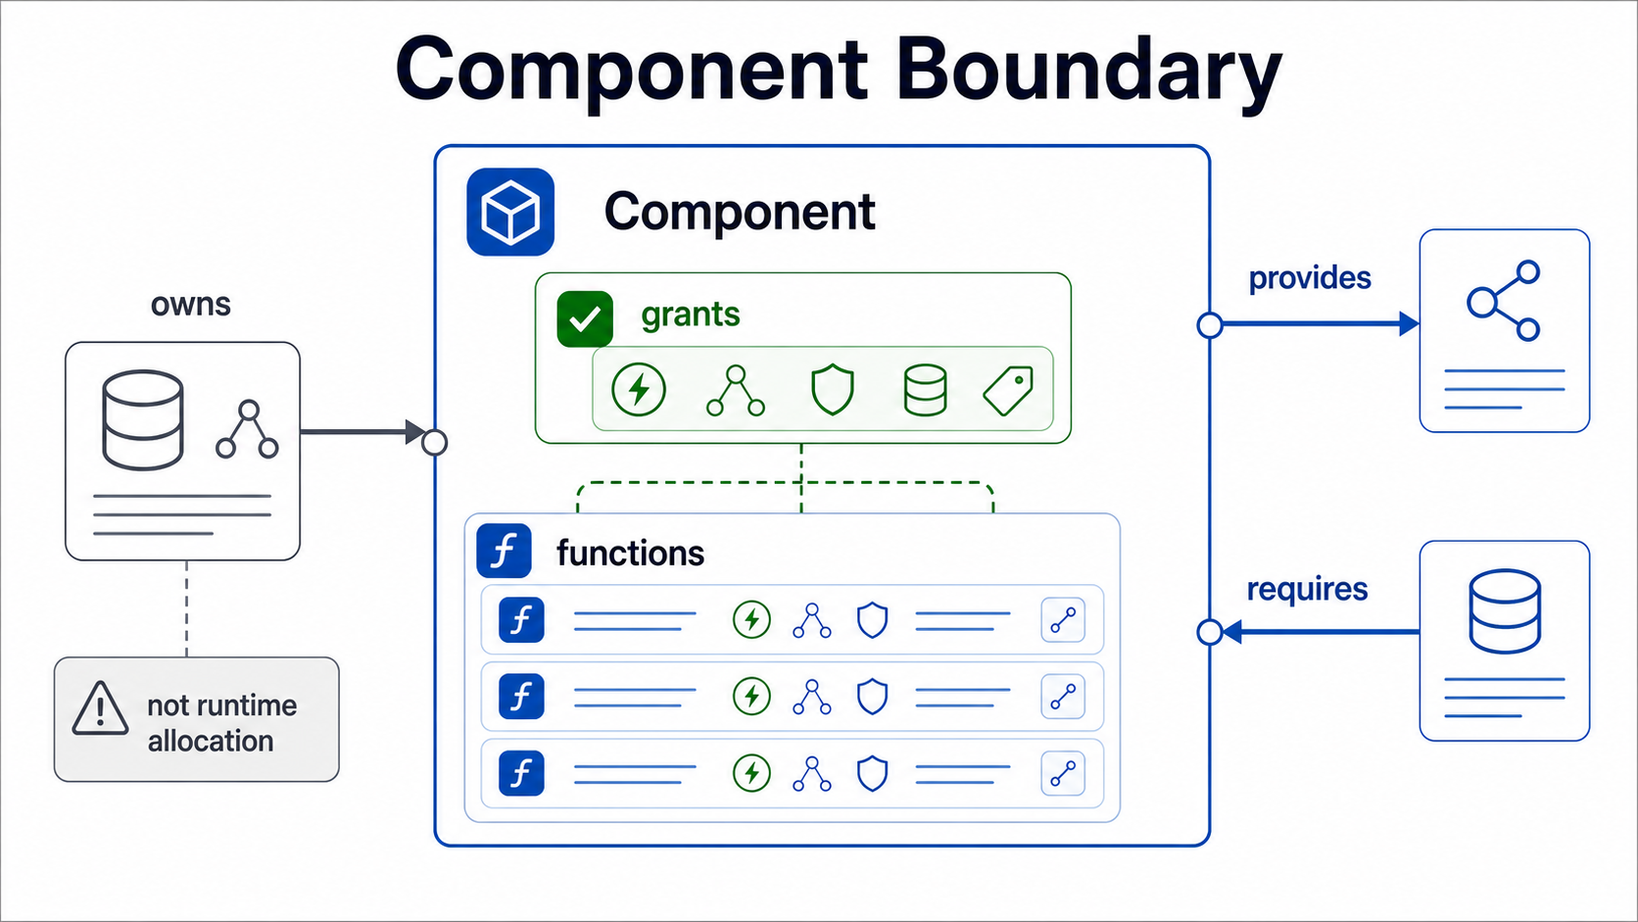
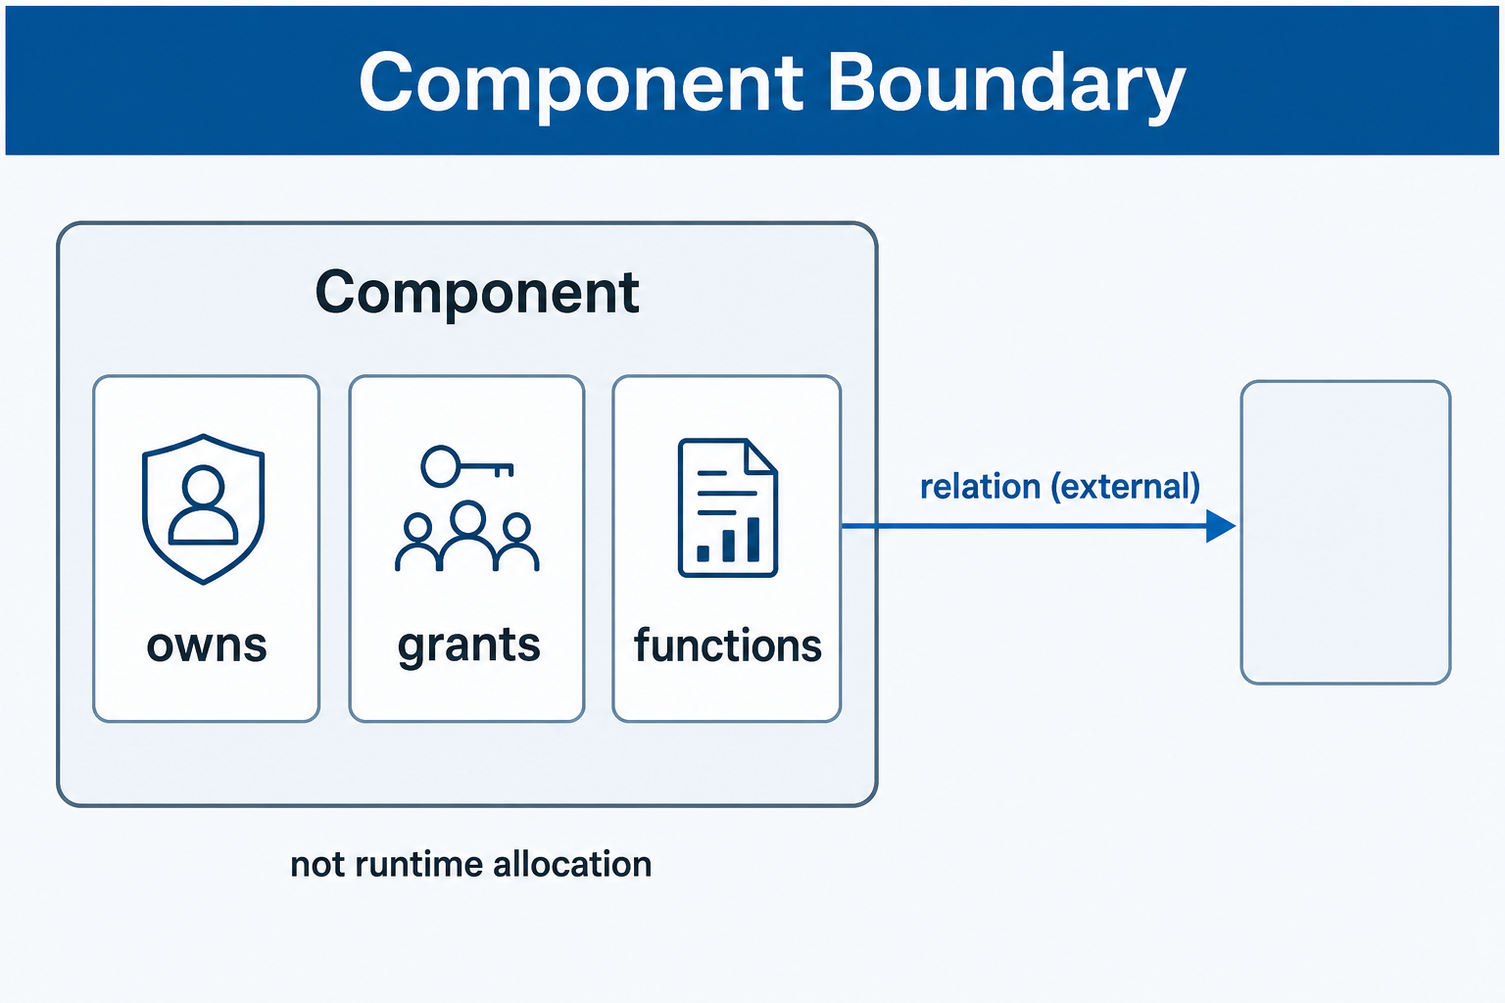
docs: align docs, skills, and infographics with hypergraph design
Close the remaining doc and asset drift left over from the
`feat: rebuild Shape around a directed hypergraph` rewrite. No code,
test, or fixture changes; this pass is content-only cleanup.

- Rename `concepts/rules-dependency-graphs.md` to `rules-hypercycles.md`
  and re-link inbound references (relations-hypergraphs, PROMPTS,
  DESIGN).
- Drop component-level "dependencies" from learn/first-shape-file,
  inside-shape/langium-grammar (add a `relation` row), and
  inside-shape/checker-pipeline (add `relation` to the parse-phase
  list, tighten "forbidden cycle" -> "forbidden hypercycle").
- Add `lowerRelation` to the fact-lowering mermaid plus a new
  "Relation Lowering" section with hyperedge/hyperedge_member facts.
- Add `Forbidden hypercycle`, `Forbidden provides`, `Invalid relation`,
  and `Unknown relation endpoint` sections to reference/diagnostics.md
  with checker-accurate samples.
- Update skill references (make-shape-protocol, teaching-guide,
  antipatterns, cli-workflows) to talk about top-level `relation`
  declarations and hypercycle bans.
- Soft-terminology pass on README, docs index, reference/cli, and
  skill cli-workflows: dependencies/dependency cycles/edge ->
  relations/hypercycles/hyperedge.
- Syntax highlighter: add `relation`, `kind`, `connects`, `roles`,
  `calls`, `callbacks`, `coordinated_call`, `as`, `hypercycle`;
  drop stale `cycle`, `where`, `includes`, `via`.
- Regenerate `component-boundary-grants.png` (relation hyperedge
[…]

Changed region(s): [[0.0, 0.0, 1.0, 0.9245], [0.0938, 0.3082, 0.1562, 0.339], [0.9375, 0.4623, 0.9688, 0.4931]]

diff --git a/docs-site/src/assets/infographics/PROMPTS.md b/docs-site/src/assets/infographics/PROMPTS.md
@@ -7,7 +7,7 @@ These prompts were written with the `$infographic` skill conventions and use `@f
 - `shape-model-loop.png` was regenerated once to remove invented sample code, filenames, and non-Shape domain details.
 - `core-vocabulary-map.png` was regenerated once after the first pass misspelled `Ownership`.
 - `design-memory-reevaluation.png` was regenerated after the first pass rendered `guards on_change` with an extra underscore.
-- `dependency-witness-path.png` was regenerated twice: the first two attempts misspelled `AuditStore`, so the final asset uses generic component names to teach the witness-path concept without a bad project term.
+- `hypercycle-witness-path.png` was regenerated for the hypergraph redesign to teach the witness-path concept using `calls`/`callbacks` relations and a `forbid hypercycle` rule. The asset uses generic `Component A`/`Component B` names because earlier image-generation passes misspelled real project component names; using generic names keeps the diagram pedagogical without inviting a bad project term into the rendered text.
 - `quickstart-loop.png` was regenerated once to remove platform logos from the install panel.
 - The saved assets were visually inspected for label spelling, layout coherence, and unsupported Shape behavior before embedding.
 
@@ -19,15 +19,15 @@ These additional prompts were intentionally lower-density than the first set. Ea
 | --- | --- | --- |
 | `quickstart-loop.png` | `learn/quickstart.md` | `Quickstart Loop`, `install shp`, `shape files`, `shp check`, `diagnostics`, `update model`, `CI` |
 | `first-shape-file-map.png` | `learn/first-shape-file.md` | `First Shape File`, `Resource`, `Component`, `Function summary`, `Effect`, `Evidence`, `checker reads claims` |
-| `component-boundary-grants.png` | `concepts/components-ownership-grants.md` | `Component Boundary`, `Component`, `owns`, `grants`, `functions`, `provides`, `requires`, `not runtime allocation` |
+| `component-boundary-grants.png` | `concepts/components-ownership-grants.md` | `Component Boundary`, `Component`, `owns`, `grants`, `functions`, `relation (external)`, `not runtime allocation` |
 | `evidence-review-path.png` | `concepts/evidence-source-refs.md` | `Evidence Path`, `Claim`, `Effect`, `Evidence`, `Source span`, `Reviewer checks`, `checker keeps provenance` |
 | `implementation-coverage-map.png` | `concepts/implementations-coverage.md` | `Implementation Coverage`, `source paths`, `implementation`, `component`, `changed file`, `shape delta`, `attestation`, `coverage gate` |
 | `unknowns-safety-states.png` | `concepts/unknowns-safety.md` | `Unknowns Stay Visible`, `effects unknown`, `review blocker`, `effects complete`, `known effects`, `memory`, `known constraint` |
-| `dependency-witness-path.png` | `concepts/rules-dependency-graphs.md` | `Dependency Witness Path`, `Component A`, `Component B`, `requires`, `callbacks`, `cycle rule`, `witness path`, `rejected` |
+| `hypercycle-witness-path.png` | `concepts/rules-hypercycles.md` | `Hypercycle Witness Path`, `Component A`, `Component B`, `calls`, `callbacks`, `forbid hypercycle`, `witness path`, `rejected` |
 | `analyzer-advisory-scan.png` | `concepts/analyzer-hints.md` | `Analyzer Hints`, `source scan`, `DELETE`, `TRUNCATE`, `DROP`, `.shape model`, `warning`, `source of truth` |
 | `diagnostics-causal-trail.png` | `concepts/diagnostics-provenance.md` | `Diagnostic Causal Trail`, `function claim`, `effect`, `resource`, `trait`, `constraint`, `provenance`, `source evidence` |
 | `fact-lowering-map.png` | `inside-shape/fact-lowering.md` | `Fact Lowering`, `declarations`, `apply changes`, `effective model`, `facts`, `rules`, `diagnostics`, `provenance` |
-| `rule-evaluation-board.png` | `inside-shape/rule-evaluation.md` | `Rule Evaluation`, `facts`, `final forbid`, `missing grant`, `coverage`, `design memory`, `cycle rule`, `pass`, `reject` |
+| `rule-evaluation-board.png` | `inside-shape/rule-evaluation.md` | `Rule Evaluation`, `facts`, `final forbid`, `missing grant`, `coverage`, `design memory`, `hypercycle rule`, `pass`, `reject` |
 | `review-helpers.png` | `inside-shape/formatter-editor-authoring.md` | `Review Helpers`, `formatter`, `editor APIs`, `authoring`, `stable diff`, `diagnostics`, `effects unknown`, `human fills evidence` |
 | `shape-boundary.png` | `inside-shape/design-rationale.md` | `Shape Boundary`, `agent drafts claims`, `human reviews claims`, `checker rejects incoherence`, `tests remain`, `code review remains`, `not a proof system` |
 

diff --git a/docs-site/src/content/docs/reference/diagnostics.md b/docs-site/src/content/docs/reference/diagnostics.md
@@ -20,6 +20,77 @@ AppendOnly forbids final HardDelete<AuditEvent>
 
 Fix the model by removing the effect, changing the architecture decision, or moving the behavior to a component/resource where the effect is allowed.
 
+## Forbidden hypercycle
+
+Cause: a `forbid hypercycle` rule found a directed cycle in the structural hypergraph. The diagnostic cites the relations forming the cycle and a vertex witness path. Each relation kind contributes steps to the cycle graph according to its declared traversal semantics (binary kinds contribute one step `A -> B`; ordered kinds contribute consecutive steps along their members).
+
+```shape
+module gateway
+
+component Gateway {
+}
+component AuditStore {
+}
+
+relation GatewayCallsAudit {
+  kind calls
+  connects Gateway -> AuditStore
+}
+
+relation AuditCallsGateway {
+  kind callbacks
+  connects AuditStore -> Gateway
+}
+
+rule no_runtime_cycle {
+  forbid hypercycle over calls or callbacks
+}
+```
+
+```text
+error: forbidden hypercycle
+
+rule no_runtime_cycle rejects this hypercycle:
+  calls GatewayCallsAudit
+  callbacks AuditCallsGateway
+witness: AuditStore -> Gateway -> AuditStore
+```
+
+Break the cycle by removing or redirecting one of the relations, or scope the rule to a different set of kinds with `forbid hypercycle over KIND`.
+
+## Forbidden provides
+
+Cause: a `forbid provides T except C` rule found a `provides` hyperedge that supplies `T` from a component other than the allowed one.
+
+```shape
+module gateway
+
+resource JsonRpcEndpoint
+
+component Gateway {
+}
+component Sidecar {
+}
+
+relation SidecarProvidesRpc {
+  kind provides
+  connects Sidecar -> JsonRpcEndpoint
+}
+
+rule GatewayBoundary {
+  forbid provides JsonRpcEndpoint except Gateway
+}
+```
+
+```text
+error: forbidden provides
+
+Sidecar provides JsonRpcEndpoint via relation SidecarProvidesRpc.
+rule GatewayBoundary forbids provides JsonRpcEndpoint except Gateway.
+```
+
+Move the `provides` relation onto the allowed component, or change the rule.
+
 ## Missing grant
 
 Cause: a function emits an effect that its component does not grant.
@@ -164,6 +235,30 @@ Add a `reevaluation` with review evidence, or avoid changing the protected funct
 Cause: a `reevaluation` is incomplete or satisfies a memory/rationale that does not exist.
 
 A valid reevaluation needs a known `satisfies` target plus `outcome`, `summary`, `evidence`, `reviewer`, and `decided_on`.
+
+## Invalid relation
+
+Cause: a `relation` declaration is malformed. Reasons reported by the checker include `missing kind`, `missing connects`, `connects requires at least two endpoints`, `duplicate kind`/`connects`/`roles`/`summary`, `duplicate endpoint X`, `kind K requires exactly two endpoints` (for binary prelude kinds), `kind K requires ordered connects (A -> B -> ...)` (for `coordinated_call`), `role NAME is not a connects endpoint`, and `duplicate role for NAME`.
+
+```text
+error: invalid relation
+
+relation GatewayCallsAudit is invalid: kind calls requires exactly two endpoints.
+```
+
+Fix the offending relation block. Each prelude kind constrains arity and connects shape: `calls`, `callbacks`, and `provides` are binary; `coordinated_call` is an ordered path of two or more endpoints; user-defined kinds accept any arity but are excluded from hypercycle detection.
+
+## Unknown relation endpoint
+
+Cause: a `relation`'s `connects` lists a name that does not resolve to a declared component or resource in the loaded model.
+
+```text
+error: unknown relation_endpoint
+
+relation_endpoint GhostService is referenced but not declared.
+```
+
+Declare the missing component or resource, or fix the endpoint name. Relation endpoints must resolve before the hypergraph is built.
 
 ## Design memory does not waive final forbids
 

diff --git a/DESIGN.md b/DESIGN.md
@@ -179,19 +179,19 @@ For Shape-specific outputs, also include:
 | `quickstart-loop.png` | Quickstart | Install, check, diagnose, update, and repeat in CI |
 | `first-shape-file-map.png` | First Shape File | Smallest useful model: resource, component, function, effect, evidence |
 | `core-vocabulary-map.png` | Resources, Traits, and Effects | Resources, traits, effects, components, grants, and evidence |
-| `component-boundary-grants.png` | Components, Ownership, and Grants | Component boundary with ownership, grants, functions, provides, and requires |
+| `component-boundary-grants.png` | Components, Ownership, and Grants | Component boundary with ownership, grants, functions, and an external relation hyperedge |
 | `evidence-review-path.png` | Evidence and Source Refs | Declared claim linked to source span and reviewer inspection |
 | `append-only-rejection.png` | Append-Only Walkthrough | Final forbids override grants and reject destructive effects |
 | `pr-change-review.png` | PR Change Files, CI Workflow | Baseline model plus PR delta plus coverage or attestation |
 | `implementation-coverage-map.png` | Implementations and Coverage | Governed source path changes require documentation |
 | `design-memory-reevaluation.png` | Refactor Constraints | Function shape trait, memory/rationale, guard, reevaluation |
 | `unknowns-safety-states.png` | Unknowns and Safety | Unknown effects, complete effects, and design memory are different states |
-| `dependency-witness-path.png` | Rules and Dependency Graphs | Dependency cycles explain failure with witness paths |
+| `hypercycle-witness-path.png` | Rules and Hypercycles | Hypercycles in the directed hypergraph explain failure with witness paths |
 | `analyzer-advisory-scan.png` | Analyzer Hints | Source analyzer hints are advisory, while `.shape` remains source of truth |
 | `diagnostics-causal-trail.png` | Diagnostics and Provenance | Diagnostics should preserve causal trail and source evidence |
 | `checker-pipeline.png` | Checker Pipeline | Parse, apply changes, lower facts, run rules, emit diagnostics |
 | `fact-lowering-map.png` | Fact Lowering | Declarations and changes lower into uniform facts with provenance |
-| `rule-evaluation-board.png` | Rule Evaluation | Rules read facts and produce pass or reject outcomes |
+| `rule-evaluation-board.png` | Rule Evaluation | Rules read facts (including hypercycle rules) and produce pass or reject outcomes |
 | `shape-boundary.png` | Design Rationale | Shape does not replace tests, code review, or proof boundaries |
 | `review-helpers.png` | Formatter, Editor, and Authoring Helpers | Supporting helpers keep `.shape` files reviewable |
 

diff --git a/README.md b/README.md
@@ -5,12 +5,12 @@ Shape is a typed architecture conformance language for making architectural clai
 Application code can be messy, implicit, and spread across many files. Shape gives the system a small human-readable model in `.shape` files:
 
 - resources, traits, and invariants
-- components, ownership, capabilities, and dependencies
+- components, ownership, capabilities, and structural relations
 - function effect summaries with source evidence
 - change files for PR-level deltas
 - coverage rules for governed source paths
 - typed design memory for refactor-sensitive functions
-- constrained project rules such as dependency-cycle bans
+- constrained project rules such as hypercycle bans over the structural hypergraph
 
 The checker does not prove the application implementation is correct. It checks that the declared architecture model is coherent. That is the product boundary: humans and LLMs write reviewable claims, then a deterministic checker accepts or rejects those claims.
 
@@ -71,7 +71,7 @@ Shape also covers:
 - governed source files changed without a shape delta or attestation
 - refactor-sensitive functions changed without a recorded reevaluation
 - required design context or descriptions missing from non-obvious function shapes
-- semantic dependency cycles with witness paths
+- semantic hypercycles in the structural hypergraph with witness paths
 - project-specific rules like "only Gateway may provide JsonRpcEndpoint", expressed over `provides` relation hyperedges
 - optional analyzer hints for obvious `DELETE`, `TRUNCATE`, and `DROP` operations
 
@@ -140,7 +140,7 @@ The checker pipeline is:
 
 1. Parse `.shape` files with Langium.
 2. Apply change blocks on top of the base model.
-3. Lower declarations into facts such as resources, traits, effects, grants, dependencies, and governed paths.
+3. Lower declarations into facts such as resources, traits, effects, grants, relation hyperedges, and governed paths.
 4. Evaluate deterministic rules.
 5. Emit diagnostics with provenance, including the declarations that caused a violation.
 

diff --git a/docs-site/src/content/docs/inside-shape/fact-lowering.md b/docs-site/src/content/docs/inside-shape/fact-lowering.md
@@ -16,12 +16,14 @@ flowchart TD
   A["ShapeModule declarations"] --> B["lowerResource"]
   A --> C["lowerTrait"]
   A --> D["lowerComponent"]
+  A --> R["lowerRelation"]
   A --> E["lowerImplementation"]
   A --> F["lowerContext"]
   A --> G["lowerRule"]
   B --> H["facts[]"]
   C --> H
   D --> H
+  R --> H
   E --> H
   F --> H
   G --> H
@@ -140,6 +142,48 @@ flowchart LR
 ```
 
 This split is why diagnostics can say both things: the resource has `AppendOnly`, and the trait forbids the specific effect.
+
+## Relation Lowering
+
+Structural links between components and resources live exclusively in top-level `relation` declarations. Lowering turns each `relation` into a hyperedge in the model's directed hypergraph plus one fact per endpoint.
+
+```shape
+module audit
+
+resource AuditEvent
+
+component Gateway {
+}
+
+component AuditStore {
+}
+
+relation GatewayCallsAudit {
+  kind calls
+  connects Gateway -> AuditStore
+}
+
+relation AuditWritePath {
+  kind coordinated_call
+  connects Gateway -> AuditStore -> AuditEvent
+}
+```
+
+The lowered facts include:
+
+```text
+hyperedge GatewayCallsAudit kind=calls ordered=true
+hyperedge_member GatewayCallsAudit Gateway index=0
+hyperedge_member GatewayCallsAudit AuditStore index=1
+hyperedge AuditWritePath kind=coordinated_call ordered=true
+hyperedge_member AuditWritePath Gateway index=0
+hyperedge_member AuditWritePath AuditStore index=1
+hyperedge_member AuditWritePath AuditEvent index=2
+```
+
+Lowering also builds a vertex-to-hyperedge incidence index keyed by endpoint name. Rule evaluation uses it to answer hypergraph questions without rescanning the AST: `forbid hypercycle` walks the directed step graph derived from each kind's traversal semantics, and `forbid provides T except C` filters incidence at `T`.
+
+A binary dependency is just a 2-vertex hyperedge. Shape does not maintain a separate binary-edge layer.
 
 ## Context Lowering
 

diff --git a/docs-site/src/content/docs/inside-shape/checker-pipeline.md b/docs-site/src/content/docs/inside-shape/checker-pipeline.md
@@ -40,7 +40,7 @@ This split keeps each phase honest. The parser does not decide whether `HardDele
 
 ## Parse
 
-Langium parses each loaded `.shape` file into a `ShapeModule`. A module contains imports and a list of top-level declarations: resources, traits, components, implementations, changes, attestations, rules, rationales, memories, and reevaluations.
+Langium parses each loaded `.shape` file into a `ShapeModule`. A module contains imports and a list of top-level declarations: resources, traits, components, relations, implementations, changes, attestations, rules, rationales, memories, and reevaluations.
 
 At this stage the checker only knows whether the text follows the grammar. For example, this is syntactically meaningful even if later rules reject it:
 
@@ -125,7 +125,7 @@ Rules consume facts and internal indexes. They answer questions such as:
 - Did a governed source file change without a matching shape delta or attestation?
 - Did a function marked `RefactorSensitive` receive the required memory?
 - Did a guarded target change without a matching reevaluation?
-- Did a hypercycle rule find a forbidden cycle in the directed hypergraph, and what relations and vertex path prove it?
+- Did a hypercycle rule find a forbidden hypercycle in the directed hypergraph, and what relations and vertex path prove it?
 
 The important detail is that these checks are deterministic comparisons over a lowered model. The checker can be conservative because it is not guessing from code. If a function has `effects unknown`, the model says uncertainty remains. If a function has `effects complete`, the author is claiming every material effect is represented.
 

diff --git a/skill/shape-lang/references/make-shape-protocol.md b/skill/shape-lang/references/make-shape-protocol.md
@@ -5,7 +5,7 @@ Use this when authoring or reviewing `.shape` files and change files. For comman
 ## Workflow
 
 1. Read the current model first: `shape/system/**/*.shape`, relevant `shape/changes/**/*.shape`, and nearby fixtures.
-2. Identify the claim type: resource invariant, component ownership, grant, dependency, function effect, implementation coverage, rule, attestation, rationale, memory, or reevaluation.
+2. Identify the claim type: resource invariant, component ownership, grant, structural relation, function effect, implementation coverage, rule, attestation, rationale, memory, or reevaluation.
 3. Prefer a small change file over rewriting the baseline model for PR work.
 4. Include `source` for changed functions and `evidence` for material effects when the source or diff gives line context.
 5. Validate with `shp fmt --check`, `shp check`, and `shp coverage --changed-files changed.txt` when changed files are available.
@@ -91,6 +91,6 @@ Smallest fix: add a Shape delta for the effect, or make the attestation specific
 - Are effects honest, including uncertainty?
 - Are grants present only where the component is actually allowed to emit the effect?
 - Do final forbidden effects still fail?
-- Are dependency changes represented with `requires` or `provides`?
+- Are structural-dependency changes represented as a top-level `relation` with the right `kind` (`calls`, `callbacks`, `provides`, `coordinated_call`)?
 - Are Memory Guard obligations satisfied when shape traits or guarded changes appear?
 - Does `shp check` still run after any filtered command such as `shp obligations` or `shp analyze`?

diff --git a/skill/shape-lang/references/teaching-guide.md b/skill/shape-lang/references/teaching-guide.md
@@ -7,11 +7,11 @@ Use this when explaining Shape to another agent or human. Teach by running or sh
 1. Shape files are typed architecture claims.
 2. The checker validates model coherence, not full source correctness.
 3. Resources carry traits and invariants.
-4. Components own resources, grant effects, and declare dependencies.
+4. Components own resources and grant effects. Structural links between components and resources live in top-level `relation` declarations.
 5. Functions summarize effects with source/evidence.
 6. Change files model PR-level deltas.
 7. Coverage rules require shape deltas for governed source changes.
-8. Rules express project constraints such as final forbids and dependency-cycle bans.
+8. Rules express project constraints such as final forbids and hypercycle bans over the directed hypergraph of relations.
 9. Memory Guards add typed design memory for non-obvious or refactor-sensitive shapes.
 
 ## CLI-Backed Teaching Path

diff --git a/docs-site/src/content/docs/concepts/components-ownership-grants.md b/docs-site/src/content/docs/concepts/components-ownership-grants.md
@@ -9,7 +9,7 @@ Components are the main boundary for claims about authority and behavior: what a
 
 Components do **not** carry structural dependencies. Calls, provides, and other links between components live in `relation` declarations. See [Relations and Hypergraphs](./relations-hypergraphs.md).
 
-![Component boundary diagram showing ownership, grants, functions, provides, requires, and the note that ownership is not runtime allocation.](../../../assets/infographics/component-boundary-grants.png)
+![Component boundary diagram showing ownership, grants, and functions inside the component, with structural links shown as an external relation hyperedge, plus the note that ownership is not runtime allocation.](../../../assets/infographics/component-boundary-grants.png)
 
 ```shape
 module audit

diff --git a/docs-site/src/content/docs/index.md b/docs-site/src/content/docs/index.md
@@ -16,7 +16,7 @@ hero:
       variant: secondary
 ---
 
-Shape gives a codebase a small human-readable model in `.shape` files. Humans and LLMs write reviewable claims about resources, components, effects, ownership, dependencies, changes, and refactor constraints. The deterministic checker accepts or rejects those claims.
+Shape gives a codebase a small human-readable model in `.shape` files. Humans and LLMs write reviewable claims about resources, components, effects, ownership, structural relations, changes, and refactor constraints. The deterministic checker accepts or rejects those claims.
 
 The checker does not prove that application code is correct. It checks whether the declared architecture model is coherent enough to enforce in review and CI.
 

diff --git a/docs-site/src/content/docs/inside-shape/langium-grammar.md b/docs-site/src/content/docs/inside-shape/langium-grammar.md
@@ -37,7 +37,8 @@ Top-level declarations currently include:
 | --- | --- |
 | `resource` | A modeled thing the architecture cares about, often with traits. |
 | `trait` | Reusable constraints or capabilities, such as final forbidden effects. |
-| `component` | An owner of resources, authority grants, dependencies, and function summaries. |
+| `component` | An owner of resources, authority grants, and function summaries. |
+| `relation` | A top-level structural hyperedge over components and resources, with `kind`, `connects`, and optional `roles`/`summary`. |
 | `implementation` | Source path governance for coverage checks. |
 | `change` | A PR-level patch to the architecture model. |
 | `attest` | A typed statement such as `no_shape_change`. |

diff --git a/docs-site/src/content/docs/inside-shape/rule-evaluation.md b/docs-site/src/content/docs/inside-shape/rule-evaluation.md
@@ -9,7 +9,7 @@ Rule evaluation decides whether the effective Shape model is coherent. By the ti
 
 Rules are intentionally boring. They compare explicit claims. They do not search source code for hidden behavior, and they do not let prose override hard constraints.
 
-![Rule evaluation diagram showing facts flowing into final forbid, missing grant, coverage, design memory, and cycle rule checks, then pass or reject outputs.](../../../assets/infographics/rule-evaluation-board.png)
+![Rule evaluation diagram showing facts flowing into final forbid, missing grant, coverage, design memory, and hypercycle rule checks, then pass or reject outputs.](../../../assets/infographics/rule-evaluation-board.png)
 
 ```mermaid
 flowchart TD
